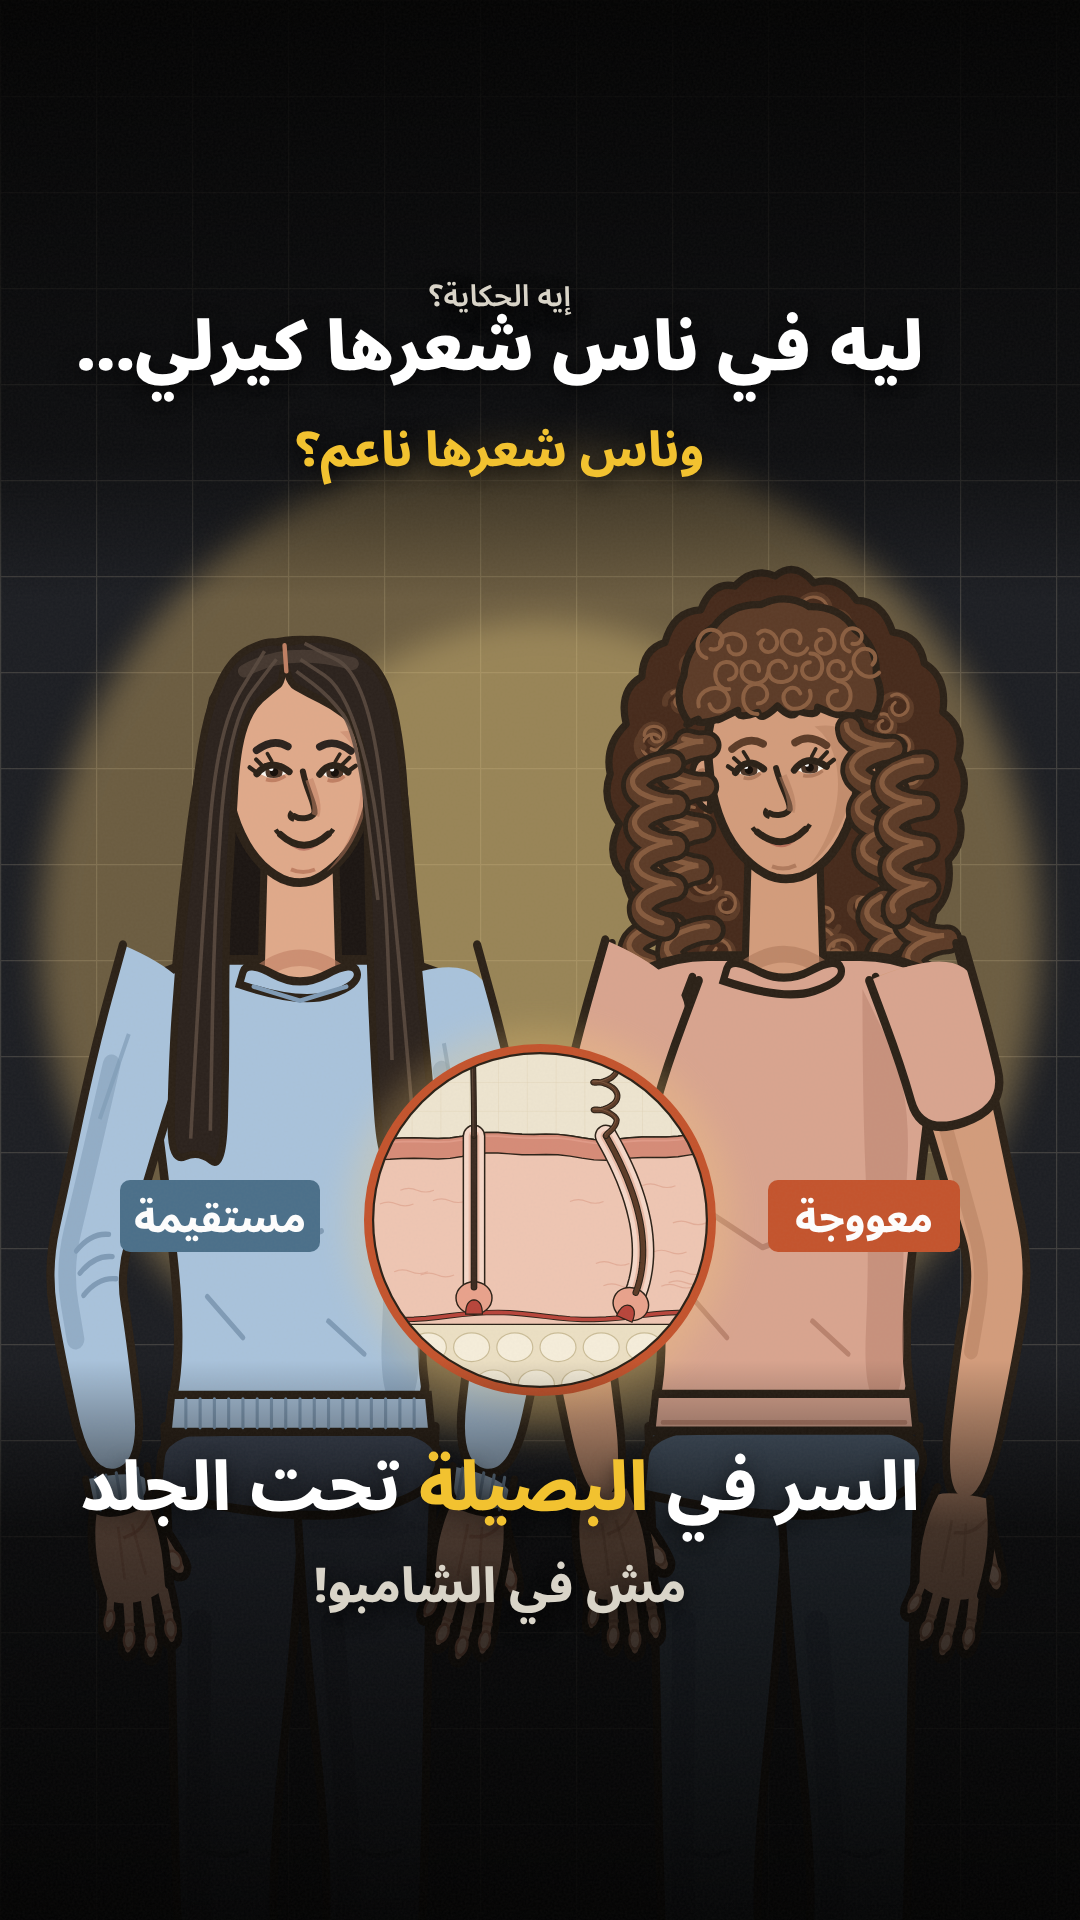
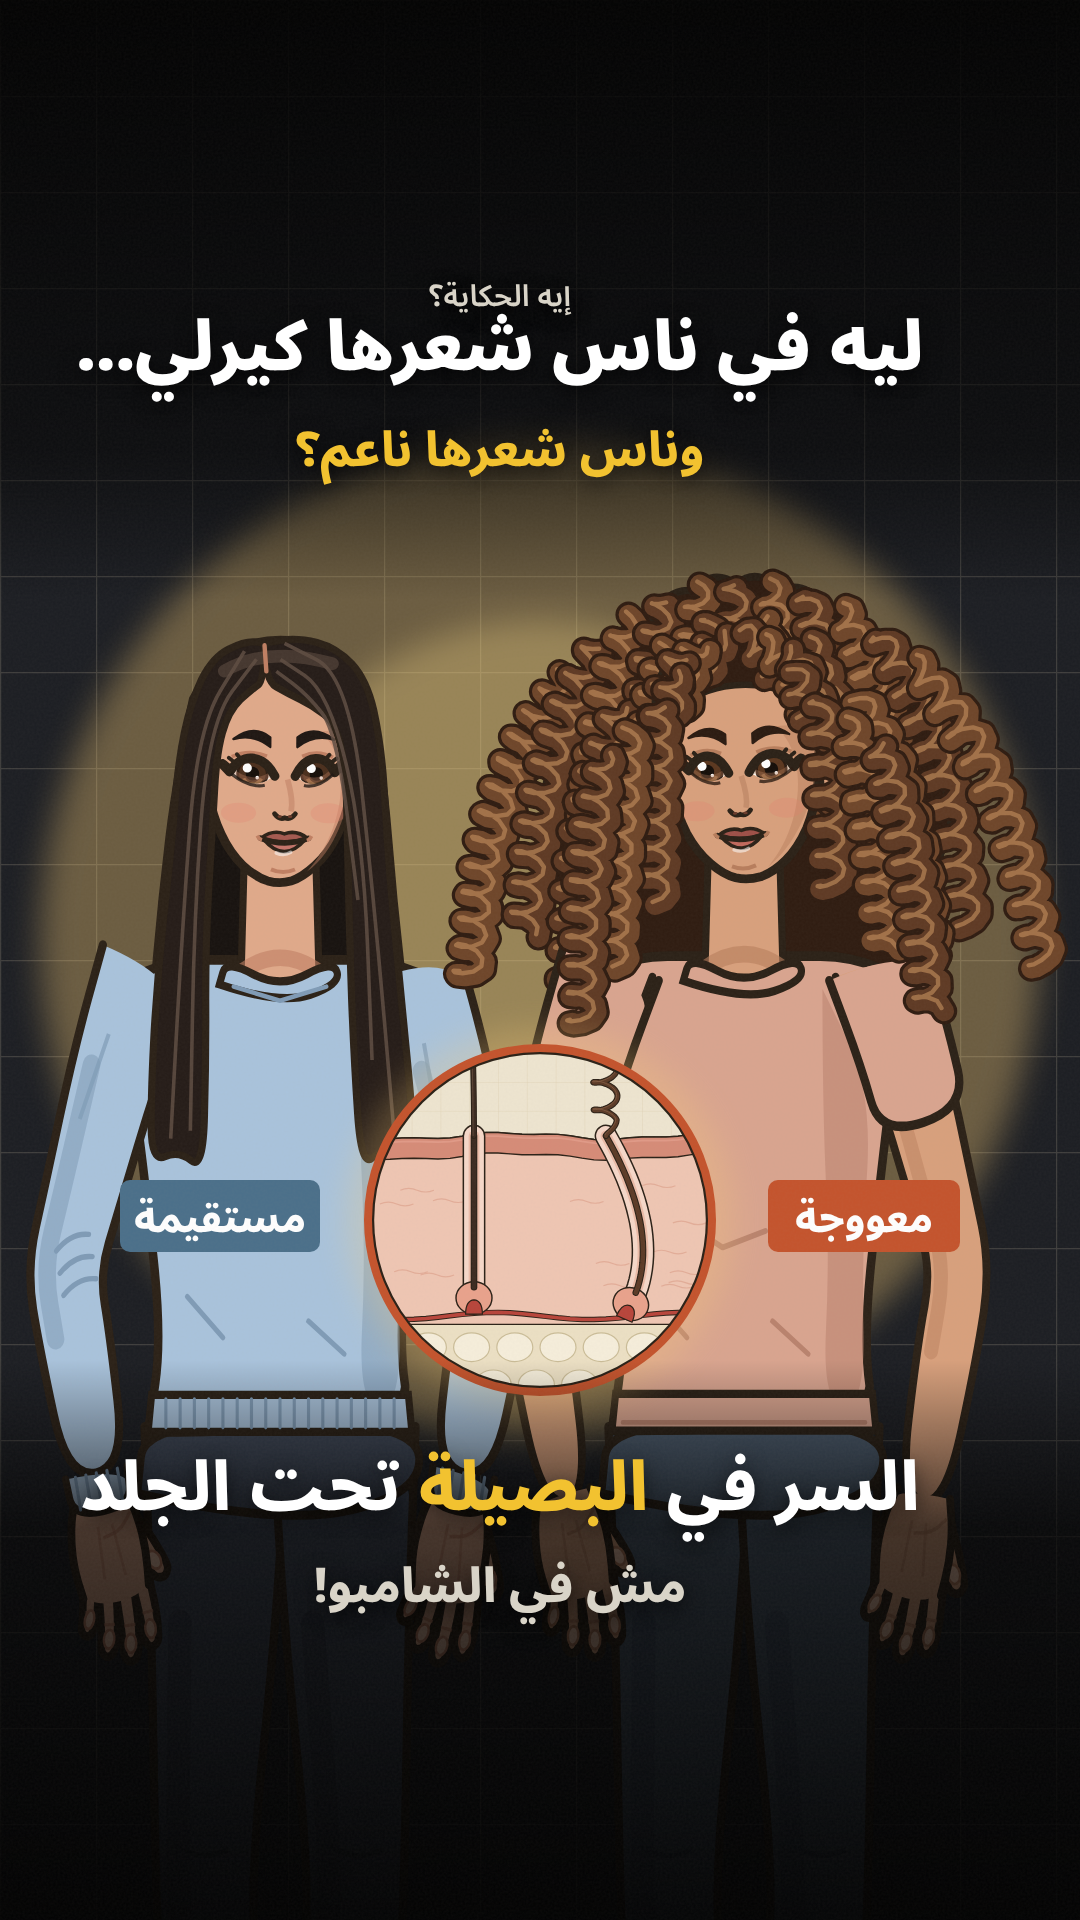
hair: fix the genes and shampoo shots, cover with the new faces
Claude-Session: https://claude.ai/code/session_016TN7FKLuKmrXKctiVZjRmg

Changed region(s): [[0.0306, 0.2812, 1.0, 0.875], [0.6722, 0.625, 0.7028, 0.6562]]

diff --git a/videos/hair/sketch/scenes.js b/videos/hair/sketch/scenes.js
@@ -384,7 +384,7 @@ shot(18, push(320, 420, 1.0, 1.06), function (u, d, t) {
 // 19 · who decides the follicle's shape? the genes
 shot(19, push(320, 400, 1.0, 1.08), function (u, d, t) {
   return paper() + G("", '<path d="M-200 600 L840 600 L840 1200 L-200 1200 Z" fill="none"/>') + appear(at(u, .2, .5), G("translate(170 400) scale(2.3)", icDNA(t, 70, 200))) +
-    appear(at(u, 1.6, .5), clipBox(330, 250, 260, 330, G("scale(.6) translate(400 160)", skin(SK) + follicle(320, 600, SK, 0) + shaft(320, SK, "straight", 200, t) + follicle(560, 600, SK, .9, { hair: "#5b3a26" }) + shaft(560, SK, "curl", 200, t, 1, "#5b3a26")))) +
+    appear(at(u, 1.6, .5), clipBox(330, 250, 260, 330, G("scale(.6) translate(260 160)", skin(SK) + follicle(320, 600, SK, 0) + shaft(320, SK, "straight", 200, t) + follicle(560, 600, SK, .9, { hair: "#5b3a26" }) + shaft(560, SK, "curl", 200, t, 1, "#5b3a26")))) +
     tag("الوراثة", 170, 690, at(u, d - 1.6, .3), 32, OLIVE);
 });
 // 20 · genes from the father and the mother
@@ -397,7 +397,7 @@ shot(20, push(320, 400, 1.06, 1.0), function (u, d, t) {
 // 21 · the same shampoo, the same oil: one stays straight, the other curly
 shot(21, push(320, 380, 1.04, 0.98), function (u, d, t) {
   return paper() + woman("straight", 170, 330, 1.75, t, { head: { turn: .2 } }) + woman("curly", 470, 330, 1.75, t, { head: { turn: -.2 } }) +
-    iconBox(320, 130, 130, G("scale(.9)", icBottle()), at(u, .2, .3)) + check(170, 640, 1.3, at(u, d * .6, .4), BLUE) + check(470, 640, 1.3, at(u, d * .8, .4), ORANGE);
+    iconBox(320, 130, 130, G("scale(.9)", icBottle()), at(u, .2, .3)) + check(60, 470, 1.3, at(u, d * .6, .4), BLUE) + check(590, 470, 1.3, at(u, d * .8, .4), ORANGE);
 });
 // 22 · the myth: shave it to zero and it comes back different — no
 shot(22, push(320, 440, 1.0, 1.08), function (u, d, t) {

diff --git a/videos/hair/sketch/shots.js b/videos/hair/sketch/shots.js
@@ -223,7 +223,7 @@ shot(18, push(320, 420, 1.0, 1.06), function (u, d, t) {
 // 19 · who decides the follicle's shape? the genes
 shot(19, push(320, 400, 1.0, 1.08), function (u, d, t) {
   return paper() + G("", '<path d="M-200 600 L840 600 L840 1200 L-200 1200 Z" fill="none"/>') + appear(at(u, .2, .5), G("translate(170 400) scale(2.3)", icDNA(t, 70, 200))) +
-    appear(at(u, 1.6, .5), clipBox(330, 250, 260, 330, G("scale(.6) translate(400 160)", skin(SK) + follicle(320, 600, SK, 0) + shaft(320, SK, "straight", 200, t) + follicle(560, 600, SK, .9, { hair: "#5b3a26" }) + shaft(560, SK, "curl", 200, t, 1, "#5b3a26")))) +
+    appear(at(u, 1.6, .5), clipBox(330, 250, 260, 330, G("scale(.6) translate(260 160)", skin(SK) + follicle(320, 600, SK, 0) + shaft(320, SK, "straight", 200, t) + follicle(560, 600, SK, .9, { hair: "#5b3a26" }) + shaft(560, SK, "curl", 200, t, 1, "#5b3a26")))) +
     tag("الوراثة", 170, 690, at(u, d - 1.6, .3), 32, OLIVE);
 });
 // 20 · genes from the father and the mother
@@ -236,7 +236,7 @@ shot(20, push(320, 400, 1.06, 1.0), function (u, d, t) {
 // 21 · the same shampoo, the same oil: one stays straight, the other curly
 shot(21, push(320, 380, 1.04, 0.98), function (u, d, t) {
   return paper() + woman("straight", 170, 330, 1.75, t, { head: { turn: .2 } }) + woman("curly", 470, 330, 1.75, t, { head: { turn: -.2 } }) +
-    iconBox(320, 130, 130, G("scale(.9)", icBottle()), at(u, .2, .3)) + check(170, 640, 1.3, at(u, d * .6, .4), BLUE) + check(470, 640, 1.3, at(u, d * .8, .4), ORANGE);
+    iconBox(320, 130, 130, G("scale(.9)", icBottle()), at(u, .2, .3)) + check(60, 470, 1.3, at(u, d * .6, .4), BLUE) + check(590, 470, 1.3, at(u, d * .8, .4), ORANGE);
 });
 // 22 · the myth: shave it to zero and it comes back different — no
 shot(22, push(320, 440, 1.0, 1.08), function (u, d, t) {

diff --git a/brand/eh-elhekaya/cover-hair-tiktok.html b/brand/eh-elhekaya/cover-hair-tiktok.html
@@ -39,7 +39,7 @@
     s += '<rect width="540" height="960" fill="#1b1d22"/><rect width="540" height="960" fill="url(#grid)" opacity=".18"/>';
     s += '<circle cx="270" cy="470" r="250" fill="#ffd27a" opacity=".35" filter="url(#soft)"/><circle cx="270" cy="460" r="150" fill="#ffe08a" opacity=".3" filter="url(#soft)"/>';
     // the two women: curly and straight, the question of the video
-    s += woman("straight", 150, 390, 2.05, t, { head: { turn: .2 } }) + woman("curly", 392, 390, 2.05, t, { head: { turn: -.2 } });
+    s += woman("straight", 140, 390, 2.05, t, { head: { turn: .2 } }) + woman("curly", 372, 390, 2.05, t, { head: { turn: -.2 } });
     // the inset: the two follicles under the skin, straight and curved
     var ix = 270, iy = 610, k = .3;
     s += '<circle cx="' + ix + '" cy="' + iy + '" r="96" fill="#ffd27a" opacity=".25" filter="url(#soft)"/>' + inset(ix, iy, 84, '<g transform="scale(' + k + ') translate(-310 -470)">' + paper() + skin(330) + follicle(200, 600, 330, 0) + shaft(200, 330, "straight", 200, t) + follicle(420, 610, 330, .9, { hair: "#5b3a26" }) + shaft(420, 330, "curl", 200, t, 1, "#5b3a26") + '</g>', 1);
